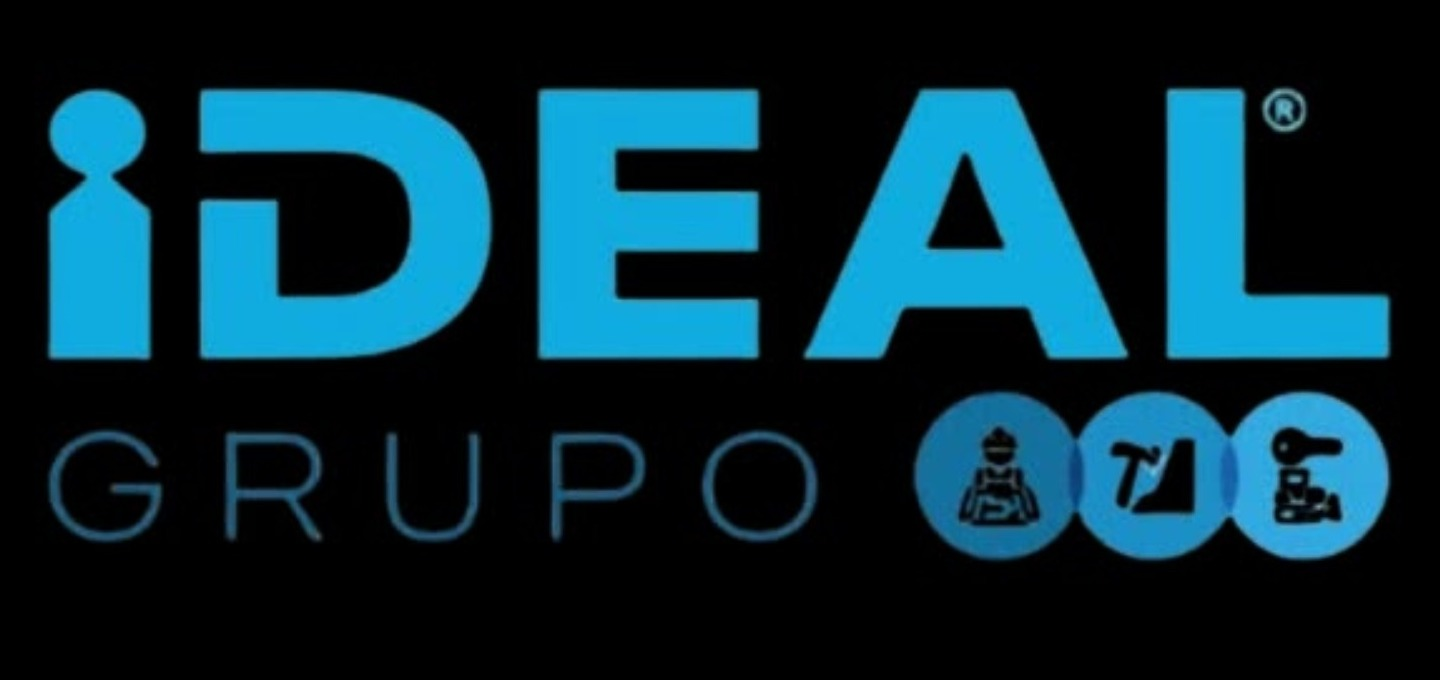
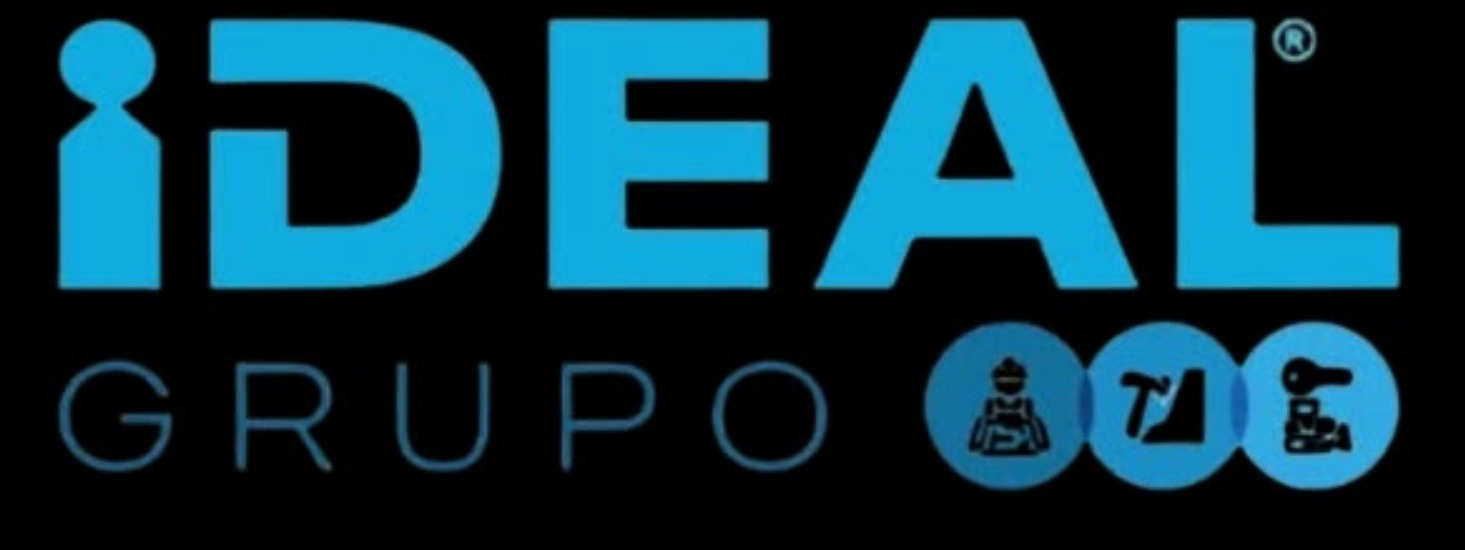
fix: refine sponsor artwork framing

diff --git a/resources/css/app.css b/resources/css/app.css
@@ -502,7 +502,7 @@ button, input, select { font: inherit; }
     width: min(100%, 1650px);
     min-height: 72px;
     display: grid;
-    grid-template-columns: max-content 1px minmax(220px, 1fr) clamp(220px, 28vw, 430px);
+    grid-template-columns: max-content 1px minmax(220px, 1fr) clamp(220px, 22vw, 320px);
     align-items: center;
     gap: 26px;
     margin: 0 auto;
@@ -541,7 +541,7 @@ button, input, select { font: inherit; }
     height: 100%;
     display: block;
     object-fit: contain;
-    object-position: left center;
+    object-position: 12% center;
     opacity: 0;
     transform: translateX(16px);
     transition: opacity .45s ease, transform .45s ease;
